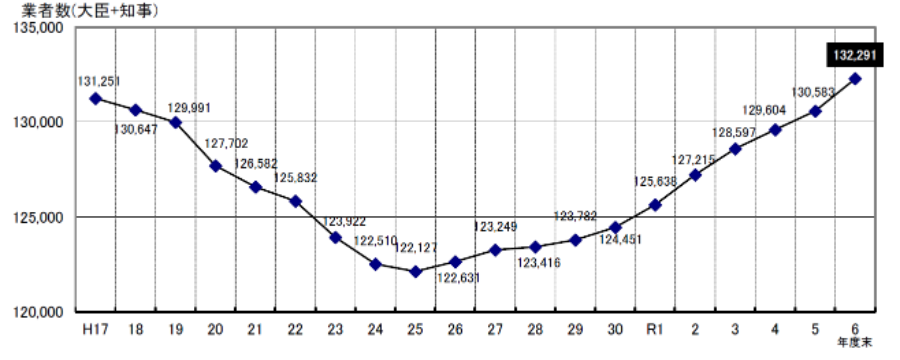
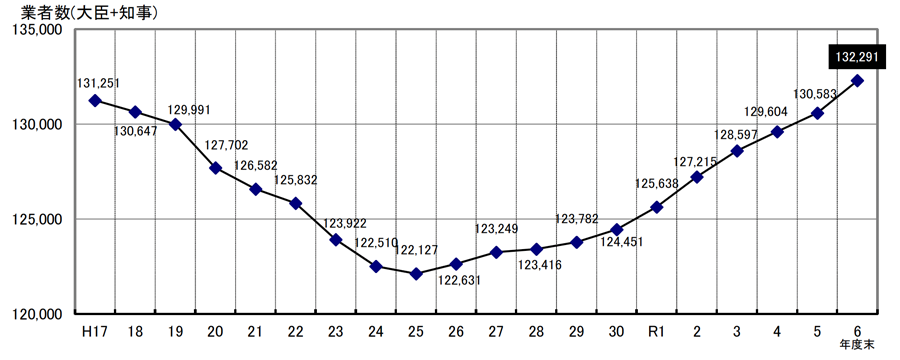
【START】修正

diff --git a/start/n/finance/sougyou/sougyou-point/202512/index.html b/start/n/finance/sougyou/sougyou-point/202512/index.html
@@ -2,15 +2,15 @@
 <html lang="ja">
 	<head>
 		<meta http-equiv="Content-Type" content="text/html; charset=utf-8" />
-		<title>ネイルサロンの創業のポイント │ START 政策金融公庫の創業支援</title>
+		<title>不動産業（宅地建物取引業）の創業のポイント │ START 政策金融公庫の創業支援</title>
 		<meta name="viewport" content="width=device-width, initial-scale=1.0" />
 		<meta name="keywords" content="" />
 		<meta name="description" content="" />
 		<link rel="shortcut icon" href="/favicon.ico" />
 		<meta property="og:type" content="website" />
-		<meta property="og:title" content="ネイルサロンの創業のポイント │ START 政策金融公庫の創業支援" />
+		<meta property="og:title" content="不動産業（宅地建物取引業）の創業のポイント │ START 政策金融公庫の創業支援" />
 		<meta property="og:description" content="" />
-		<meta property="og:url" content="https://www.jfc.go.jp/n/finance/sougyou/202503/" />
+		<meta property="og:url" content="https://www.jfc.go.jp/n/finance/sougyou/202512/" />
 		<meta property="og:site_name" content="あなたの創業は、どこから？ │ START 政策金融公庫の創業支援" />
 		<meta property="og:image" content="/img/ogimage.png" />
 
@@ -65,7 +65,7 @@
 								<h2 class="common-ttl02 mb-2">1.業種の概要</h2>
 								<h3 class="common-ttl03 band mt-3 mb-2">（１）業種の概要</h3>
 								<p class="common-txt01">
-									宅地建物取引業とは、土地や建物の売買、交換、賃貸の仲介や代理を業として行う事業のことをいいます。たとえば「土地を売りたい人」と「買いたい人」をつなぐ仲介をしたり、アパートの入居者を募集して契約を仲介したりする場合が該当します。
+									不動産業（宅地建物取引業）とは、土地や建物の売買、交換、賃貸の仲介や代理を業として行う事業のことをいいます。たとえば「土地を売りたい人」と「買いたい人」をつなぐ仲介をしたり、アパートの入居者を募集して契約を仲介したりする場合が該当します。
 									<br />
 									宅地建物取引業法では、以下の行為を業として行うものと規定されています。
 								</p>
@@ -78,9 +78,9 @@
 								<h3 class="common-ttl03 band mt-5 mb-2">（２）市場動向</h3>
 								<h4 class="common-ttl04 line mb-1">【不動産業の企業数】</h4>
 								<p class="common-txt01">
-									国土交通省が発表している資料によると、宅地建物取引業者数は、令和6年度時点で11 年連続で増加しています。<br />
-									令和６年度末（令和７年３月末）現在の宅地建物取引業者数は、132,291 業者（国土交通大臣免許が3,158業者、都道府県知事免許が129,133 業者）です。<br />
-									対前年度比では、大臣免許が111 業者（3.6％）、知事免許が1,597 業者（1.3％）増加し（全体では1,708 業者（1.3％）の増加）、11 年連続の増加となっています（図表―１参照）。
+									国土交通省が発表している資料によると、宅地建物取引業者数は、令和6年度時点で11年連続で増加しています。<br />
+									令和６年度末（令和７年３月末）現在の宅地建物取引業者数は、132,291業者（国土交通大臣免許が3,158業者、都道府県知事免許が129,133業者）です。<br />
+									対前年度比では、大臣免許が111 業者（3.6％）、知事免許が1,597業者（1.3％）増加し（全体では1,708業者（1.3％）の増加）、11 年連続の増加となっています（図表―１参照）。
 								</p>
 								<div class="common-img01 mt-4">
 									<h5 class="common-ttl05 line mb-1">図表―１　宅地建物取引業者数の推移（過去20年間）</h5>
@@ -90,7 +90,7 @@
 								<h3 class="common-ttl03 band mt-5 mb-2">【不動産業の経営環境】</h3>
 								<h4 class="common-ttl04 line mt-2 mb-1">① マクロ経済の影響を受けやすい</h4>
 								<p class="common-txt01">
-									宅地建物取引業はマクロ経済の動きにとても影響を受けやすい業種です。金利の上昇や景気の変化、住宅ローンに関わる政策、さらには人々の価値観の変化が、取引の数や価格を左右します。<br />
+									不動産業はマクロ経済の動きにとても影響を受けやすい業種です。金利の上昇や景気の変化、住宅ローンに関わる政策、さらには人々の価値観の変化が、取引の数や価格を左右します。<br />
 									景気が良い時期には投資意欲が高まり、不動産の流通も活発になりますが、景気が悪くなると取引は減り、仲介や販売を中心とする事業者の収益は厳しくなります。このように、マクロ経済の動向と強く結びついています。
 								</p>
 								<h4 class="common-ttl04 line mt-4 mb-1">② 需要の変化</h4>
@@ -101,7 +101,7 @@
 								</p>
 								<h4 class="common-ttl04 line mt-4 mb-1">③ ミクロ環境の影響</h4>
 								<p class="common-txt01">
-									宅地建物取引業はミクロ環境の影響も大きい業種です。<br />
+									不動産業はミクロ環境の影響も大きい業種です。<br />
 									地域の経済状況や人口動態、地価の変化、競合他社の戦略、地元の金融機関や建設会社との関係性など、身近な要素が業績を左右します。<br />
 									たとえば、地方では人口減少で取引が減る傾向がありますが、再開発が進む都市部では新たな需要が生まれることもあります。<br />
 									また、<span class="text-marker">地域の工務店やリフォーム業者、管理会社などとの協力体制を築くことで、顧客満足度を高め、紹介やリピートにつなげることも可能です。創業の際には、こうした地域とのつながりづくりが非常に有効になります。</span>
@@ -113,16 +113,16 @@
 											国土交通省は、2019年に「不動産業に携わるすべてのプレーヤーが不動産業の持続的な発展を確保するための官民共通の指針」として『不動産業ビジョン2030』という資料を発表しています。<br />
 											この資料には、今後の不動産業の経営において考慮すべき内容が盛り込まれています（図表―２参照）。創業においては、この内容も考慮してビジネスプランを構築しましょう。
 										</p>
-										<h3 style="color: #588E58;font-size: 1.2rem; margin-top: 40px;">不動産業ビジョン2030 <span style="font-size: 1rem;"><br />～令和時代の『不動産最適活用』に向けて～（概要）を基に著者作成</span></h3>
+										<h3 style="color: #588E58;font-size: 1.2rem; margin-top: 40px;">不動産業ビジョン2030 図表-2 <span style="font-size: 1rem;"><br />～令和時代の『不動産最適活用』に向けて～（概要）を基に著者作成</span></h3>
 										<h5 class="common-ttl05 mt-2 mb-1">【本ビジョン全体を通じた基本コンセプト】</h5>
 										<p class="common-txt01">■ 人口減少・少子高齢化など社会経済情勢が急速に変化する状況下においては、次の2点が重要<br />① 時代の要請や地域のニーズを踏まえた不動産を形成し、<br />② それら不動産の活用を通じて、個人・企業・社会にとっての価値創造の最大化（＝『不動産最適活用』）を図ること<br />■ これからの不動産業は、『不動産最適活用』の実現をサポートしていくことが必要</p>
 										<h5 class="common-ttl05 mt-3 mb-1">【不動産業の将来像】</h5>
 										<p class="common-txt01">不動産業が目指すべき将来像として次の3点を設定<br />① 豊かな住生活を支える産業：快適な居住環境の創造、円滑な住替え等<br />② 我が国の持続的成長を支える産業：オフィス、物流施設、ホテル等の供給等<br />③ 人々の交流の「場」を支える産業：憩いの「場」、イノベーションの「場」等</p>
 										<h5 class="common-ttl05 mt-3 mb-1">【官民共通の目標】</h5>
 										<p class="common-txt01">上記将来像を実現する上での官民共通の目標として、次の7点を設定</p>
-										<div class="common-img01 mt-4">
-											<img src="../../img/sougyou-point/202512/sougyou-poin_202512_02.png" alt="">
-										</div>
+										<figure class="common-figure01 mt-3">
+						<img src="../../img/sougyou-point/202512/sougyou-point_202512_03pc.png" alt="" class="v-pc"><img src="../../img/sougyou-point/202512/sougyou-point_202512_03sp.png" alt="" class="v-sp">
+					</figure>
 									</dl>
 								</div>
 							</section>
@@ -162,7 +162,7 @@
 									宅地建物取引士が専ら当該事務所等の宅地建物取引業務に従事する、もしくは従事することができる状態であることが必要となります。<br />
 									宅地建物取引士が宅地建物取引業務のみならず、他の業務も併せて従事する場合、当該宅地建物取引士が専ら宅地建物取引業務に従事することができる状態かどうか実質的に判断することとなります。
 								</p>
-								<h4 class="common-ttl04 line mt-4 mb-1">③ 営業保証金または保証協会への加入</h4>
+								<h4 class="common-ttl04 line mt-4 mb-1">③ 営業保証金の供託または保証協会への加入</h4>
 								<p class="common-txt01">不動産取引では、万一のトラブルに備えて「営業保証金」を供託するか、「宅地建物取引業保証協会」に加入する必要があります。</p>
 								<h5 class="common-ttl05 mt-2 mb-1">～営業保証金を供託する場合～</h5>
 								<p class="common-txt01">
@@ -188,10 +188,9 @@
 									不動産業の主な商品・サービスは、「売買仲介」「賃貸仲介」「管理」「開発・分譲」「コンサルティング」などに大別されます。<span class="text-marker">創業時には、地域の需要や自身の経験に応じて、どの領域に重点を置くかを明確にすることが重要です</span>。（図表―３参照）
 								</p>
 								<div class="common-table-wrap">
+										
 									<table class="common-table04 mt-4">
-										<caption>
-											図表―３　主な商品・サービス（著者作成）
-										</caption>
+										<caption style="font-size: 1.2rem;">図表―３　主な商品・サービス（著者作成）</caption>
 										<tbody>
 											<tr>
 												<th>区分</th>
@@ -249,7 +248,7 @@
 								<ul class="common-ul02 mb-2">
 									<li>住宅ローンの選定、申込サポート</li>
 									<li>購入計画、ライフプランに基づく資金シミュレーション</li>
-									<li>補助金、税制優遇の活用支</li>
+									<li>補助金、税制優遇の活用支援</li>
 									<li>建築、リフォーム会社との連携によるワンストップ提案</li>
 								</ul>
 								<p class="common-txt01">ポイント：住宅購入の安心感を軸に、金融知識と生活設計の両面で支援できる体制を整えることが鍵です。</p>
@@ -258,7 +257,7 @@
 								<ul class="common-ul02 mb-2">
 									<li>アパート、マンション、戸建て、店舗などの賃貸仲介</li>
 									<li>SUUMO、アットホームなどのポータルサイト掲載による集客</li>
-									<li>ＳＮＳ、Google広告などを活用したインターネット広告営業</li>
+									<li>SNS、Google広告などを活用したインターネット広告営業</li>
 									<li>契約、更新、入居サポートまでの一貫対応</li>
 									<li>地元企業、大学、医療機関などとの法人提携による安定集客</li>
 								</ul>
@@ -332,13 +331,13 @@
 								<h3 class="common-ttl03 band mt-5 mb-2">（１）オンライン戦略</h3>
 								<h4 class="common-ttl04 line mt-3 mb-1">① 自社ホームページ、ポータル連携</h4>
 								<p class="common-txt01">物件情報を単に掲載するだけでなく、地域情報や融資・税制の豆知識などを発信し、専門性をアピールします。</p>
-								<h4 class="common-ttl04 line mt-3 mb-1">② ＳＮＳ（Instagram、LINE、YouTube等）活用</h4>
+								<h4 class="common-ttl04 line mt-3 mb-1">② SNS（Instagram、LINE、YouTube等）活用</h4>
 								<p class="common-txt01">成功事例や施工事例、顧客インタビューなどを通して、人柄や実績を可視化します。</p>
 								<h4 class="common-ttl04 line mt-3 mb-1">③ Googleビジネスプロフィール</h4>
 								<p class="common-txt01">口コミ、写真、投稿を継続的に更新し、地域検索（ローカルSEO）での露出を高めます。</p>
 								<h3 class="common-ttl03 band mt-5 mb-2">（２）オフライン戦略</h3>
 								<h4 class="common-ttl04 line mt-3 mb-1">① 紹介ネットワークの構築</h4>
-								<p class="common-txt01">地元の金融機関、税理士、工務店、行政等などから、紹介が得られるような関係を築きます。</p>
+								<p class="common-txt01">地元の金融機関、税理士、工務店、行政などから、紹介が得られるような関係を築きます。</p>
 								<h4 class="common-ttl04 line mt-3 mb-1">② 相談会・セミナー開催</h4>
 								<p class="common-txt01">「空き家活用」「相続対策」「不動産投資ノウハウ」など、ニーズあるテーマを切り口に信頼を構築します。</p>
 								<h4 class="common-ttl04 line mt-3 mb-1">③ 地域密着PR</h4>
@@ -347,7 +346,7 @@
 								<p class="common-txt01"><span class="text-marker">初回接触での契約に至らなくても、「無料査定レポート」「住宅ローン診断」「不動産相続チェックリスト」などの提供を通じて、再接触できることを前提にしたマーケティングを行うことが重要です</span>。
 								</p>
 								<h3 class="common-ttl03 band mt-5 mb-2">（４）リピーター戦略</h3>
-								<p class="common-txt01">宅地建物取引業を繫栄させるには、一度の契約で終わらせないことがポイントです。契約後のフォローアップ体制が、次の紹介や再取引につながります。以下のような施策が有効です。</p>
+								<p class="common-txt01">不動産業を繫栄させるには、一度の契約で終わらせないことがポイントです。契約後のフォローアップ体制が、次の紹介や再取引につながります。以下のような施策が有効です。</p>
 								<ul class="common-ul02 mt-1 mb-1">
 									<li>定期的な市場動向レポートや不動産ニュースレターの配信</li>
 									<li>売却や購入後のリフォーム提案や管理サポート</li>
@@ -387,7 +386,7 @@
 								</p>
 								<h3 class="common-ttl03 band mt-5 mb-2">（２）人材確保、教育、組織づくりのまとめ</h3>
 								<p class="common-txt01">
-									今後の宅地建物取引業では、「相手の心に寄り添う提案型の営業」「デジタルツールを活用した効率と信頼の両立」「人材、組織、文化の整備」の三本柱が、創業、成長、安定経営を実現するための重要な要素になります。
+									今後の不動産業では、「相手の心に寄り添う提案型の営業」「デジタルツールを活用した効率と信頼の両立」「人材、組織、文化の整備」の三本柱が、創業、成長、安定経営を実現するための重要な要素になります。
 									<br />
 									グイグイ押す営業をするのではなく、お客様とともに「選び、創る、支える」姿勢を貫くことで、地域に根ざした信頼型不動産会社として長く選ばれ続ける基盤が築けます。
 								</p>
@@ -397,37 +396,36 @@
 								<h2 class="common-ttl02 mb-2">7．資金計画</h2>
 								<p class="common-txt01">
 									不動産業の創業には、営業保証金（もしくは弁済業務保証金分担金）や事務所、広告宣伝など集客にかかる初期投資が必要になります。<br />
-									事務所を賃借して開業する場合、初期資金はおおむね 300万円〜800万円程度、内装やIT環境を整備する場合は 1,000万円前後 になることもあります。主な初期費用の内容を挙げると、以下のようなものが考えられます。
+									事務所を賃借して開業する場合、初期資金はおおむね300万円〜800万円程度、内装やIT環境を整備する場合は1,000万円前後になることもあります。主な初期費用の内容を挙げると、以下のようなものが考えられます。
 								</p>
 								<h3 class="common-ttl03 band mt-5 mb-2">【設備資金】</h3>
 								<h4 class="common-ttl04 line mt-3 mb-1">① 事務所関連費</h4>
 								<p class="common-txt01">
 									開業にあたって最も大きな支出が、事務所の確保と設備費です。<br />
 									敷金、礼金、仲介手数料のほか、内装工事、机や椅子などの什器、パソコン、複合機といった備品の購入費も必要になります。<br />
-									小規模なオフィスでも、これらを合わせると 150万〜300万円程度 が一般的な目安です。
+									小規模なオフィスでも、これらを合わせると150万〜300万円程度が一般的な目安です。
 								</p>
 								<h4 class="common-ttl04 line mt-3 mb-1">② 免許取得・登録費用</h4>
 								<p class="common-txt01">
 									宅地建物取引業の免許を取得する際には、登録免許税などの費用がかかります。<br />
-									都道府県知事免許、国土交通大臣免許、それぞれに申請の手数料が必要です。このほか、申請書類の取得や証紙代などの諸費用 も見込んでおきましょう。
+									都道府県知事免許、国土交通大臣免許、それぞれに申請の手数料が必要です。このほか、申請書類の取得や証紙代などの諸費用も見込んでおきましょう。
 								</p>
 								<h4 class="common-ttl04 line mt-3 mb-1">③ 営業保証金または保証協会分担金</h4>
 								<p class="common-txt01">
 									事業を開始するには、法令で定められた「営業保証金」を供託する必要があります。<br />
-									金額は本店で 1,000万円、支店で 500万円 ですが、多くの事業者は保証協会に加入し、代わりに弁済業務保証金分担金や保証協会の入会金として おおむね60万〜100万円前後
-									を納付します。創業初期は資金負担を抑えるためにも、保証協会への加入を選ぶケースが一般的です。
+									金額は本店で1,000万円、支店で500万円ですが、多くの事業者は保証協会に加入し、代わりに弁済業務保証金分担金や保証協会の入会金としておおむね60万〜100万円前後を納付します。創業初期は資金負担を抑えるためにも、保証協会への加入を選ぶケースが一般的です。
 								</p>
 								<h4 class="common-ttl04 line mt-3 mb-1">⑤ 備品・システム導入費</h4>
 								<p class="common-txt01">
 									業務の効率化と信頼性向上のため、デジタル環境の整備も有効です。<br />
-									パソコン、複合機などの基本設備に加え、顧客管理システム（CRM） や 電子契約ツール、クラウド型物件管理システム の導入を検討すると良いでしょう。<br />
-									導入コストは 30万〜100万円程度 が目安ですが、クラウドサービスを活用すれば初期投資を抑えることも可能です。
+									パソコン、複合機などの基本設備に加え、顧客管理システム（CRM）や電子契約ツール、クラウド型物件管理システムの導入を検討すると良いでしょう。<br />
+									導入コストは30万〜100万円程度が目安ですが、クラウドサービスを活用すれば初期投資を抑えることも可能です。
 								</p>
 								<h3 class="common-ttl03 band mt-5 mb-2">【運転資金】</h3>
 								<p class="common-txt01">
 									不動産業では、開業直後の集客活動が非常に重要です。ホームページ制作、ポータルサイト（SUUMO、アットホーム等）への掲載、名刺、看板制作、SNS広告運用など、オンライン・オフライン両面での広告費が発生します。これらの初期費用は
 									30万〜100万円程度が目安で、特にネット広告やSEO対策は早期の成果に直結する重要な投資です。<br />
-									開業後すぐに売上が安定するとは限らないため、3〜6か月分の運転資金 を確保しておくことが大切です。賃料、人件費、通信費、広告費などを合わせ、150万〜300万円程度 の余裕を持った資金計画を立てましょう。
+									開業後すぐに売上が安定するとは限らないため、3〜6か月分の運転資金を確保しておくことが大切です。賃料、人件費、通信費、広告費などを合わせ、150万〜300万円程度の余裕を持った資金計画を立てましょう。
 								</p>
 								<h3 class="common-ttl03 band mt-5 mb-2">【資金計画のまとめ】</h3>
 								<p class="common-txt01"><span class="text-marker">
@@ -454,8 +452,7 @@
 								</p>
 								<h4 class="common-ttl04 line mt-3 mb-1">③管理業務</h4>
 								<p class="common-txt01">
-									さらに、管理業務を同時に進めることで、安定的なストック収入を得ることができます。たとえば管理戸数が40戸、1戸あたり月5,000円の管理料を設定すると、月20万円の定期収入が得られます。これらを合計すると、月間売上はおおむね230万円程度
-									となります。
+									さらに、管理業務を同時に進めることで、安定的なストック収入を得ることができます。たとえば管理戸数が40戸、1戸あたり月5,000円の管理料を設定すると、月20万円の定期収入が得られます。これらを合計すると、月間売上はおおむね230万円程度となります。
 								</p>
 								<h3 class="common-ttl03 band mt-5 mb-2">（２）費用構造の目安</h3>
 								<p class="common-txt01">
@@ -468,12 +465,12 @@
 								</ul>
 								<p>
 									これら「管理、再生、紹介」の3軸を持つことで、季節変動や景気動向に左右されにくい安定的な経営が可能になります。<br />
-									また、近年はポータルサイト依存から脱却し、自社メディアやＳＮＳを活用して紹介、口コミ経由の成約率を高める動きも広がっています。<br />
+									また、近年はポータルサイト依存から脱却し、自社メディアやSNSを活用して紹介、口コミ経由の成約率を高める動きも広がっています。<br />
 									このような「信頼を基盤としたリピート型の営業構造」を確立することが、長期的な収益の平準化につながります。
 								</p>
 								<div class="common-table-wrap">
 									<table class="common-table04 mt-4">
-										<caption>
+										<caption style="font-size: 1.2rem;">
 											図表―４　不動産業の収支計画例
 										</caption>
 										<tbody>
